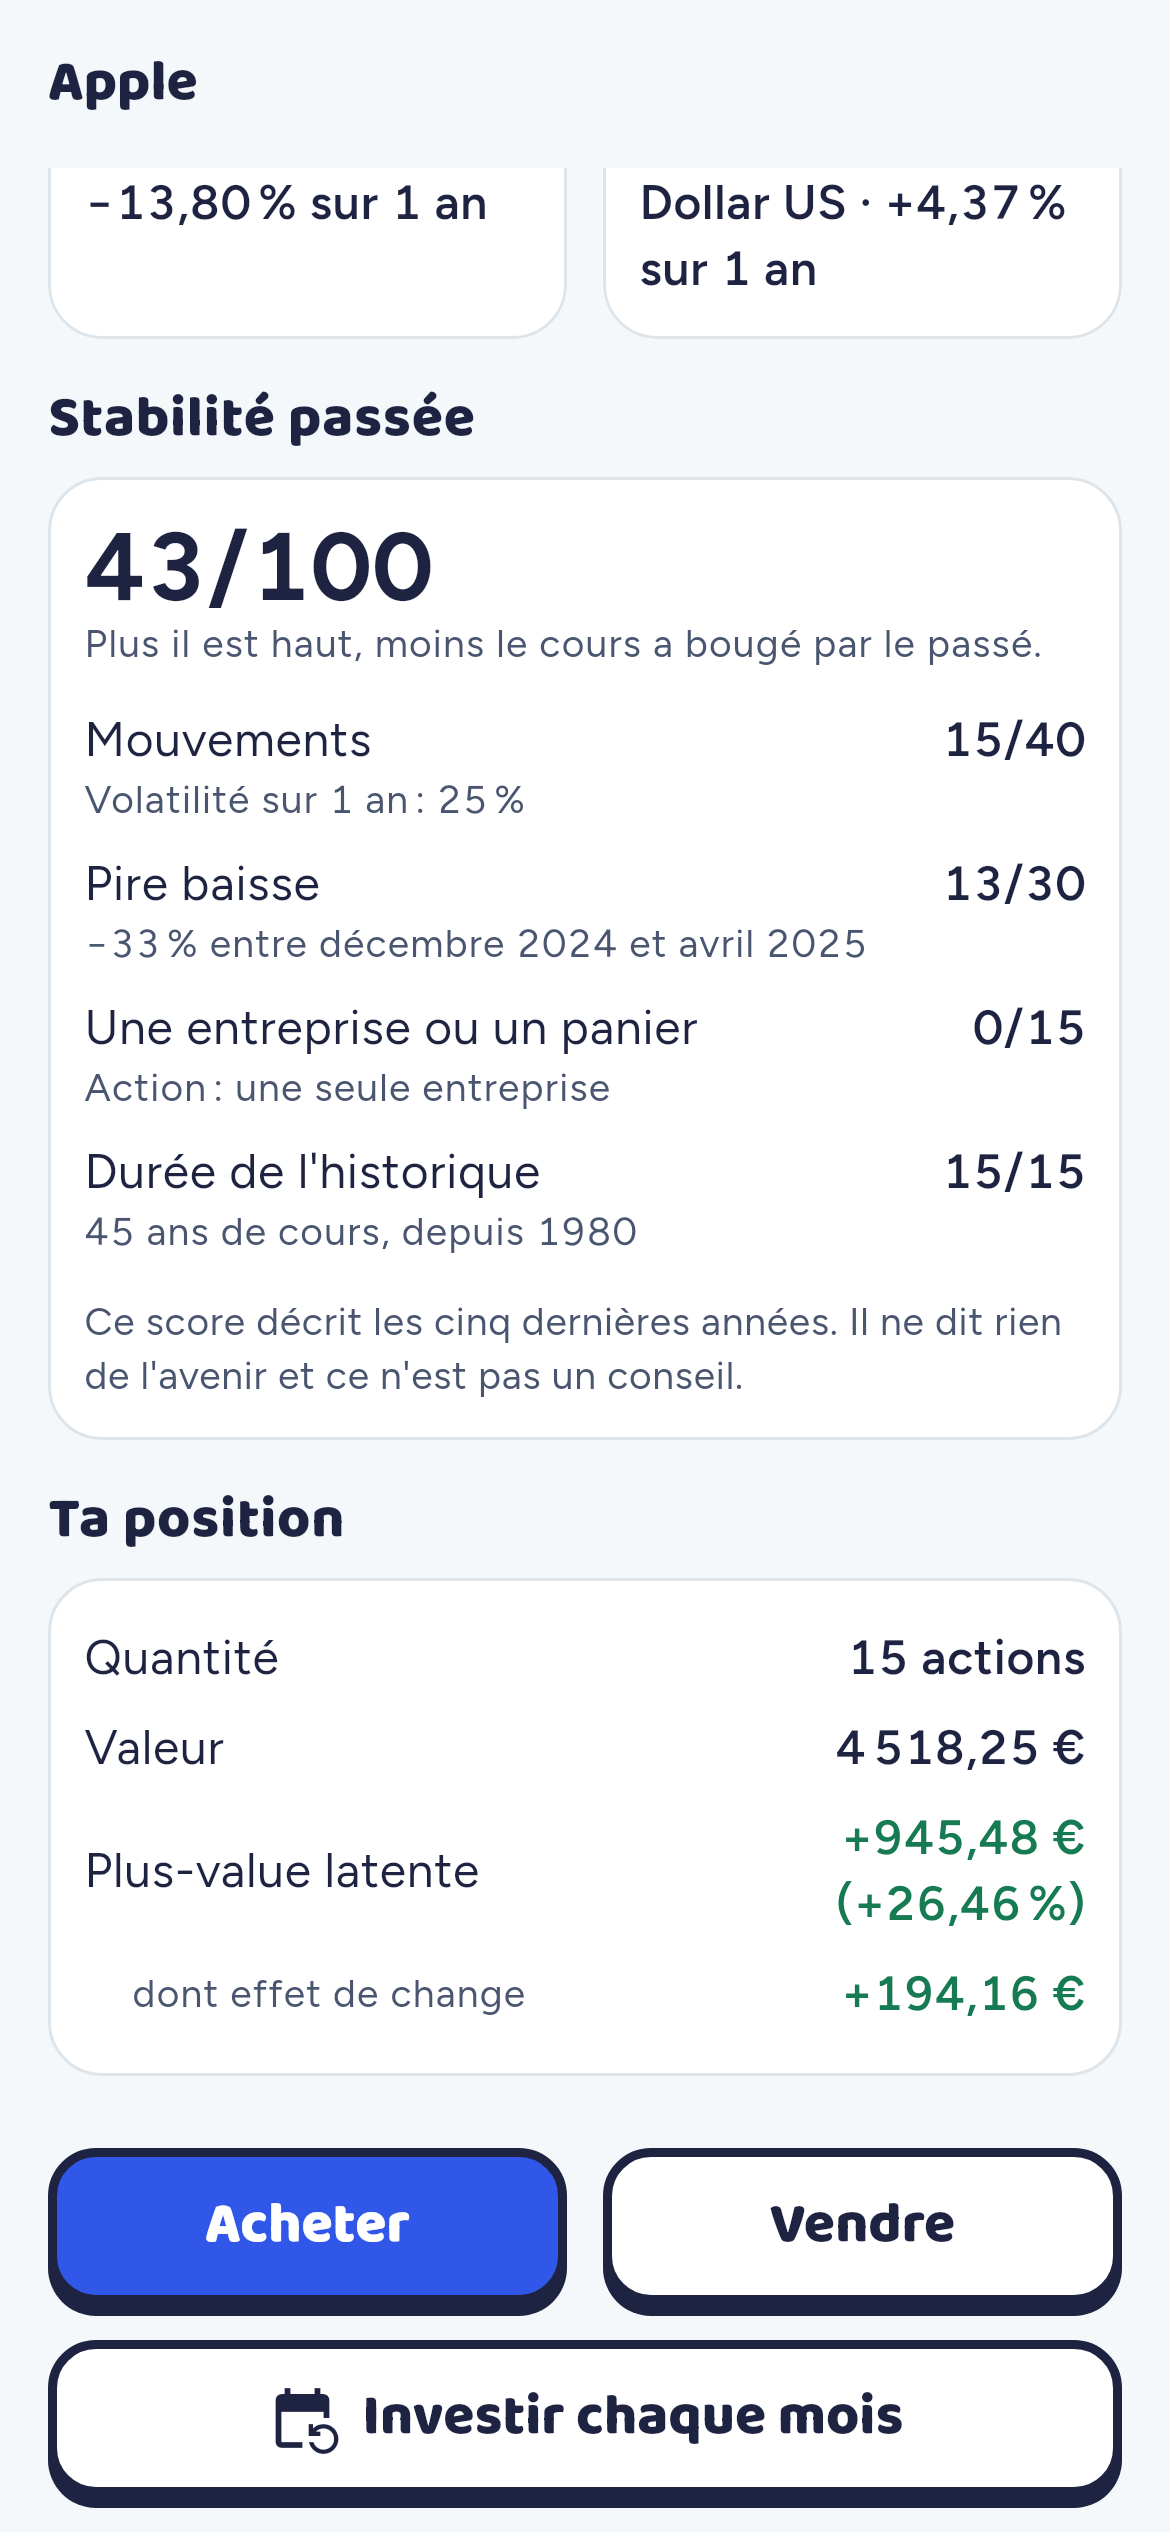
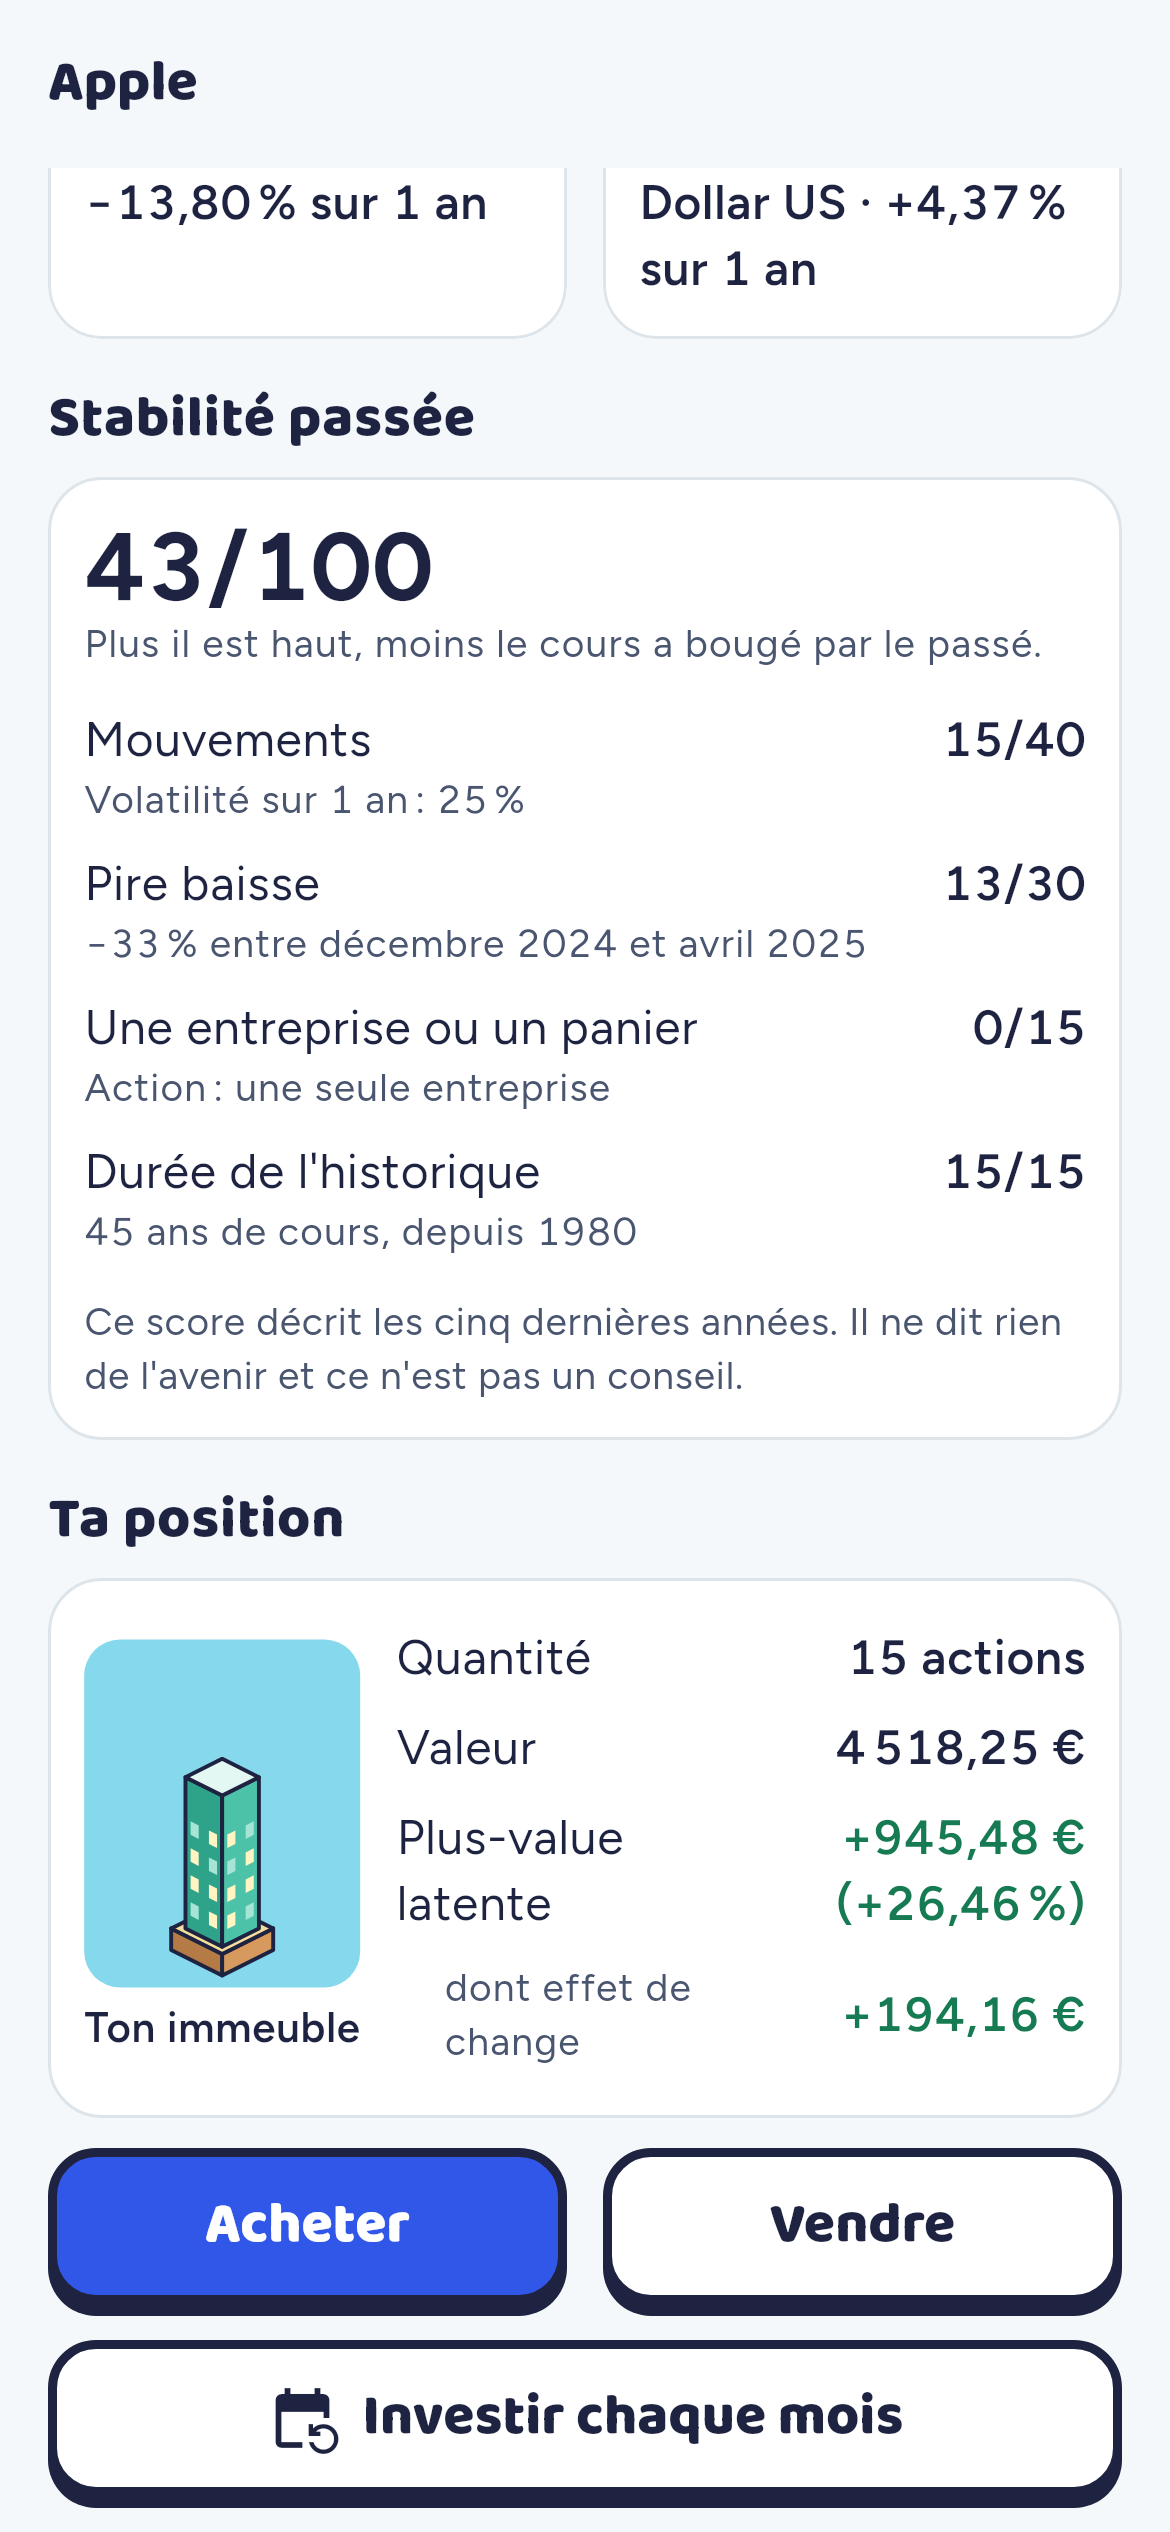
M11-6: The asset page and its building

diff --git a/app/test/presentation/features/asset_screen_test.dart b/app/test/presentation/features/asset_screen_test.dart
@@ -3,6 +3,7 @@ import 'package:finance_companion/application/asset/asset_page.dart';
 import 'package:finance_companion/application/companion/companion.dart';
 import 'package:finance_companion/application/order/order_ticket.dart';
 import 'package:finance_companion/application/providers.dart';
+import 'package:finance_companion/application/wallet/living_island.dart';
 import 'package:finance_companion/application/wallet/dca_plans.dart';
 import 'package:finance_companion/core/cache_status.dart';
 import 'package:finance_companion/core/l10n/formats.dart';
@@ -14,6 +15,7 @@ import 'package:finance_companion/domain/market/asset.dart';
 import 'package:finance_companion/domain/market/market_calendar.dart';
 import 'package:finance_companion/domain/market/price_bar.dart';
 import 'package:finance_companion/domain/market/quote.dart';
+import 'package:finance_companion/domain/wallet/island_buildings.dart';
 import 'package:finance_companion/domain/wallet/order.dart';
 import 'package:finance_companion/domain/wallet/position.dart';
 import 'package:finance_companion/domain/wallet/trip_engine.dart';
@@ -23,6 +25,8 @@ import 'package:finance_companion/presentation/features/asset/asset_screen.dart'
 import 'package:finance_companion/presentation/features/asset/stability_card.dart';
 import 'package:finance_companion/presentation/features/dca/plan_sheet.dart';
 import 'package:finance_companion/presentation/features/glossary/term_sheet.dart';
+import 'package:finance_companion/presentation/features/map/archipelago.dart';
+import 'package:finance_companion/presentation/features/map/living_island.dart';
 import 'package:finance_companion/presentation/features/order/order_sheet.dart';
 import 'package:finance_companion/core/widgets/chunky.dart';
 import 'package:fl_chart/fl_chart.dart';
@@ -134,7 +138,11 @@ AssetOverview overview({
   );
 }
 
-Future<void> show(WidgetTester tester, AssetOverview o) async {
+Future<void> show(
+  WidgetTester tester,
+  AssetOverview o, {
+  List<IslandBuilding> island = const [],
+}) async {
   tester.platformDispatcher.localesTestValue = [const Locale('fr')];
   addTearDown(tester.platformDispatcher.clearLocalesTestValue);
   // Tall enough for every section, the position last.
@@ -146,6 +154,7 @@ Future<void> show(WidgetTester tester, AssetOverview o) async {
       overrides: [
         cacheStatusProvider.overrideWith((ref) => Stream.value(const Fresh())),
         assetOverviewProvider.overrideWith((ref, args) async => o),
+        walletIslandProvider.overrideWith((ref, args) async => island),
         planSetupProvider.overrideWith2(
           (_) => FakePlanSetup(planContext(o.asset)),
         ),
@@ -396,6 +405,62 @@ void main() {
     expect(find.text('+1${nnbsp}140,00$nbsp€ (+80,85$nnbsp%)'), findsOneWidget);
     expect(find.text('dont effet de change'), findsOneWidget);
     expect(find.text('${minus}93,75$nbsp€'), findsOneWidget);
+  });
+
+  testWidgets('position: its building as the island draws it (M11-6)', (
+    tester,
+  ) async {
+    await show(
+      tester,
+      overview(),
+      island: [
+        IslandBuilding('world', height: Decimal.one, built: Decimal.one),
+        IslandBuilding(
+          'apple',
+          height: Decimal.parse('0.5'),
+          built: Decimal.one,
+        ),
+      ],
+    );
+    final portrait = find.byWidgetPredicate(
+      (w) => w is CustomPaint && w.painter is BuildingPortraitPainter,
+    );
+    expect(portrait, findsOneWidget);
+    final painter =
+        tester.widget<CustomPaint>(portrait).painter!
+            as BuildingPortraitPainter;
+    // Second on the island, at its height there, built.
+    expect(painter.rank, 1);
+    expect(
+      painter.building,
+      drawnBuildings([
+        IslandBuilding(
+          'apple',
+          height: Decimal.parse('0.5'),
+          built: Decimal.one,
+        ),
+      ]).single,
+    );
+    expect(find.text('Ton immeuble'), findsOneWidget);
+    // Beside the figures, in the same card.
+    expect(
+      tester.getCenter(portrait).dx,
+      lessThan(tester.getCenter(find.text('15 actions')).dx),
+    );
+  });
+
+  testWidgets('position: no building where the island has none', (
+    tester,
+  ) async {
+    await show(tester, overview());
+    expect(find.text('Ta position'), findsOneWidget);
+    expect(
+      find.byWidgetPredicate(
+        (w) => w is CustomPaint && w.painter is BuildingPortraitPainter,
+      ),
+      findsNothing,
+    );
+    expect(find.text('Ton immeuble'), findsNothing);
   });
 
   testWidgets('« Stabilité passée »: the score, its parts, what it is not', (

diff --git a/app/lib/presentation/features/asset/asset_screen.dart b/app/lib/presentation/features/asset/asset_screen.dart
@@ -12,6 +12,9 @@ import '../../../core/l10n/formats.dart';
 import '../../../core/money/money.dart';
 import '../../../core/theme/app_theme.dart';
 import '../../../core/theme/tokens.dart';
+import '../map/living_island.dart';
+import '../map/archipelago.dart';
+import '../../../application/wallet/living_island.dart';
 import '../../../core/widgets/chunky.dart';
 import '../../../core/widgets/async_states.dart';
 import '../../../domain/market/asset.dart';
@@ -636,13 +639,23 @@ class _Essentials extends StatelessWidget {
   }
 }
 
-class _PositionCard extends StatelessWidget {
+/// What the wallet holds of it, beside its building as the island draws it
+/// (M11-6, option B of the « The world on every tab » canvas).
+class _PositionCard extends ConsumerWidget {
   const _PositionCard(this.o);
   final AssetOverview o;
 
   @override
-  Widget build(BuildContext context) {
+  Widget build(BuildContext context, WidgetRef ref) {
     final l10n = AppLocalizations.of(context);
+    // Kept on the island even when it is not among the five largest.
+    final island =
+        ref.watch(walletIslandProvider(o.walletId, keep: o.asset.id)).value ??
+        const [];
+    final rank = island.indexWhere((b) => b.assetId == o.asset.id);
+    final building = rank >= 0 && rank < 5
+        ? drawnBuildings(island)[rank]
+        : null;
     final formats = _formats(context);
     final text = Theme.of(context).textTheme;
     final p = o.position!;
@@ -700,20 +713,56 @@ class _PositionCard extends StatelessWidget {
       child: Card(
         child: Padding(
           padding: const EdgeInsets.all(AppSpace.x3),
-          child: Column(
-            crossAxisAlignment: CrossAxisAlignment.stretch,
+          child: Row(
             children: [
-              row(l10n.asset_position_quantity, quantity),
-              row(
-                l10n.asset_position_value,
-                formats.amount(p.value, Currency.eur),
-              ),
-              row(l10n.asset_position_pnl, pnl, color: signColor(p.pnl)),
-              row(
-                l10n.asset_position_fx,
-                formats.amount(p.currencyEffect, Currency.eur, signed: true),
-                color: signColor(p.currencyEffect),
-                indent: true,
+              if (building != null) ...[
+                Column(
+                  children: [
+                    ExcludeSemantics(
+                      child: Container(
+                        width: BuildingPortraitPainter.size.width,
+                        height: BuildingPortraitPainter.size.height,
+                        clipBehavior: Clip.antiAlias,
+                        decoration: BoxDecoration(
+                          color: AppColors.sea,
+                          borderRadius: BorderRadius.circular(AppSpace.x3),
+                        ),
+                        child: CustomPaint(
+                          painter: BuildingPortraitPainter(
+                            building,
+                            rank: rank,
+                          ),
+                        ),
+                      ),
+                    ),
+                    const SizedBox(height: AppSpace.x1),
+                    Text(l10n.asset_position_building, style: AppText.label),
+                  ],
+                ),
+                const SizedBox(width: AppSpace.x3),
+              ],
+              Expanded(
+                child: Column(
+                  crossAxisAlignment: CrossAxisAlignment.stretch,
+                  children: [
+                    row(l10n.asset_position_quantity, quantity),
+                    row(
+                      l10n.asset_position_value,
+                      formats.amount(p.value, Currency.eur),
+                    ),
+                    row(l10n.asset_position_pnl, pnl, color: signColor(p.pnl)),
+                    row(
+                      l10n.asset_position_fx,
+                      formats.amount(
+                        p.currencyEffect,
+                        Currency.eur,
+                        signed: true,
+                      ),
+                      color: signColor(p.currencyEffect),
+                      indent: true,
+                    ),
+                  ],
+                ),
               ),
             ],
           ),

diff --git a/app/lib/presentation/features/map/archipelago.dart b/app/lib/presentation/features/map/archipelago.dart
@@ -384,9 +384,26 @@ class ArchipelagoPainter extends CustomPainter {
     }
   }
 
-  void _building(BlockPen pen, IsoProjection p, int spot, DrawnBuilding b) {
-    if (b.height <= 0) return;
+  static void _building(
+    BlockPen pen,
+    IsoProjection p,
+    int spot,
+    DrawnBuilding b,
+  ) {
     final (cx, cy) = _spots[spot];
+    _buildingAt(pen, p, cx, cy, spot, b);
+  }
+
+  /// [b] centred on ([cx], [cy]), in [spot]'s colours, windows and flag.
+  static void _buildingAt(
+    BlockPen pen,
+    IsoProjection p,
+    double cx,
+    double cy,
+    int spot,
+    DrawnBuilding b,
+  ) {
+    if (b.height <= 0) return;
     final (x, y) = (cx - _footprint / 2, cy - _footprint / 2);
     final (shades, lit) = MapPalette.buildings[spot];
     final standing = b.height * b.built.clamp(0, 1);
@@ -717,7 +734,46 @@ class ArchipelagoPainter extends CustomPainter {
 }
 
 /// Fills shapes and outlines them, as the art direction draws its blocks.
-final class BlockPen {
+final
+/// One building alone, as it stands on Actions & ETF (BRIEF §4.8, M11-6):
+/// at the island's scale, in the colours, windows and flag of its place there
+/// ([rank], the largest 0), a pending buy's ghost included, on a plot of
+/// sand. The asset page's « Ta position ».
+class BuildingPortraitPainter
+    extends CustomPainter {
+  BuildingPortraitPainter(this.building, {required this.rank})
+    : assert(rank >= 0 && rank < 5, 'one of the island\'s five spots');
+
+  final DrawnBuilding building;
+  final int rank;
+
+  /// Room for the tallest building and its flag over its plot.
+  static const size = Size(92, 116);
+
+  @override
+  void paint(Canvas canvas, Size size) {
+    final island = archipelago.firstWhere((i) => i.id == IslandId.actionsEtf);
+    // The plot's front corner just above the bottom edge.
+    final p = IsoProjection(
+      tile: island.tile,
+      unit: island.unit,
+      origin: Offset(
+        size.width / 2,
+        size.height - 4 - island.tile / 4 - 0.4 * island.unit,
+      ),
+    );
+    final pen = BlockPen(canvas, AppColors.ink, 1.3);
+    pen.block(boxFacets(p, -0.5, -0.5, 1, 1, 0.4, z: -0.4), MapPalette.dirt);
+    final spot = ArchipelagoPainter._spots.length - 1 - rank;
+    ArchipelagoPainter._buildingAt(pen, p, 0, 0, spot, building);
+  }
+
+  @override
+  bool shouldRepaint(BuildingPortraitPainter oldDelegate) =>
+      oldDelegate.building != building || oldDelegate.rank != rank;
+}
+
+class BlockPen {
   BlockPen(this.canvas, this.ink, double width)
     : _outline = Paint()
         ..color = ink

diff --git a/app/screenshots/asset_test.dart b/app/screenshots/asset_test.dart
@@ -4,12 +4,14 @@ import 'dart:io';
 import 'package:decimal/decimal.dart';
 import 'package:finance_companion/application/asset/asset_page.dart';
 import 'package:finance_companion/application/providers.dart';
+import 'package:finance_companion/application/wallet/living_island.dart';
 import 'package:finance_companion/core/cache_status.dart';
 import 'package:finance_companion/core/money/money.dart';
 import 'package:finance_companion/data/repositories/wallet_repository.dart';
 import 'package:finance_companion/domain/market/asset.dart';
 import 'package:finance_companion/domain/market/market_calendar.dart';
 import 'package:finance_companion/domain/market/price_bar.dart';
+import 'package:finance_companion/domain/wallet/island_buildings.dart';
 import 'package:finance_companion/domain/wallet/order.dart';
 import 'package:finance_companion/domain/wallet/position.dart';
 import 'package:finance_companion/domain/wallet/trip_engine.dart';
@@ -127,6 +129,22 @@ void main() {
   final overrides = [
     cacheStatusProvider.overrideWith((ref) => Stream.value(const Fresh())),
     assetOverviewProvider.overrideWith((ref, args) async => o),
+    // Apple, second on the live wallet's island (M11-6).
+    walletIslandProvider.overrideWith(
+      (ref, args) async => [
+        IslandBuilding('world', height: Decimal.one, built: Decimal.one),
+        IslandBuilding(
+          'apple',
+          height: Decimal.parse('0.6'),
+          built: Decimal.one,
+        ),
+        IslandBuilding(
+          'asml',
+          height: Decimal.parse('0.4'),
+          built: Decimal.one,
+        ),
+      ],
+    ),
     assetChartProvider.overrideWith((ref, args) async {
       final (_, _, period, benchmark) = args;
       return assetChartFor(o, period, benchmark: benchmark);

diff --git a/app/test/presentation/features/map/archipelago_test.dart b/app/test/presentation/features/map/archipelago_test.dart
@@ -97,6 +97,37 @@ void main() {
     expect(ArchipelagoPainter.buildingRects(island, const []), isEmpty);
   });
 
+  test('one building alone, as on the island: each rank, built, rising or '
+      'a ghost on its slab (M11-6)', () {
+    for (final rank in [0, 1, 2, 3, 4]) {
+      for (final b in const [
+        DrawnBuilding(height: 4, built: 1, ghost: 0),
+        DrawnBuilding(height: 2, built: 0.5, ghost: 1),
+        DrawnBuilding(height: 1, built: 0, ghost: 1),
+      ]) {
+        final recorder = PictureRecorder();
+        BuildingPortraitPainter(
+          b,
+          rank: rank,
+        ).paint(Canvas(recorder), BuildingPortraitPainter.size);
+        expect(recorder.endRecording(), isNotNull);
+      }
+    }
+    const b = DrawnBuilding(height: 2, built: 1, ghost: 0);
+    final painter = BuildingPortraitPainter(b, rank: 1);
+    expect(painter.shouldRepaint(BuildingPortraitPainter(b, rank: 1)), isFalse);
+    expect(painter.shouldRepaint(BuildingPortraitPainter(b, rank: 0)), isTrue);
+    expect(
+      painter.shouldRepaint(
+        BuildingPortraitPainter(
+          const DrawnBuilding(height: 3, built: 1, ghost: 0),
+          rank: 1,
+        ),
+      ),
+      isTrue,
+    );
+  });
+
   test('repaints when the buildings change, not otherwise', () {
     final a = ArchipelagoPainter(buildings: const [b1, b2]);
     expect(

diff --git a/docs/BRIEF.md b/docs/BRIEF.md
@@ -698,6 +698,10 @@ prix » (limit, stop) or « … au prochain jour de cotation du voyage » (trip)
   screen readers hear the card as one sentence.
 - User position: quantity, value, P&L (amount, %), of which currency effect = value now − value at the
   average purchase rate (notional-weighted, kept by sells like the average cost).
+- Beside the position, its building (decided 2026-10-28 by the user, M11-6, option B of the canvas « The world
+  on every tab »): on a 92×116 square of `sea`, as Actions & ETF draws it at the island's scale, in the colours,
+  windows and flag of its place there, a waiting buy's ghost included (`BuildingPortraitPainter`), « Ton
+  immeuble » under it. An asset the island does not draw shows none.
 - Buy / Sell buttons, and under them « Investir chaque mois » (M9-41): the plan sheet for this asset in the
   scoped wallet (§4.5). None of them on a finished trip.
 
